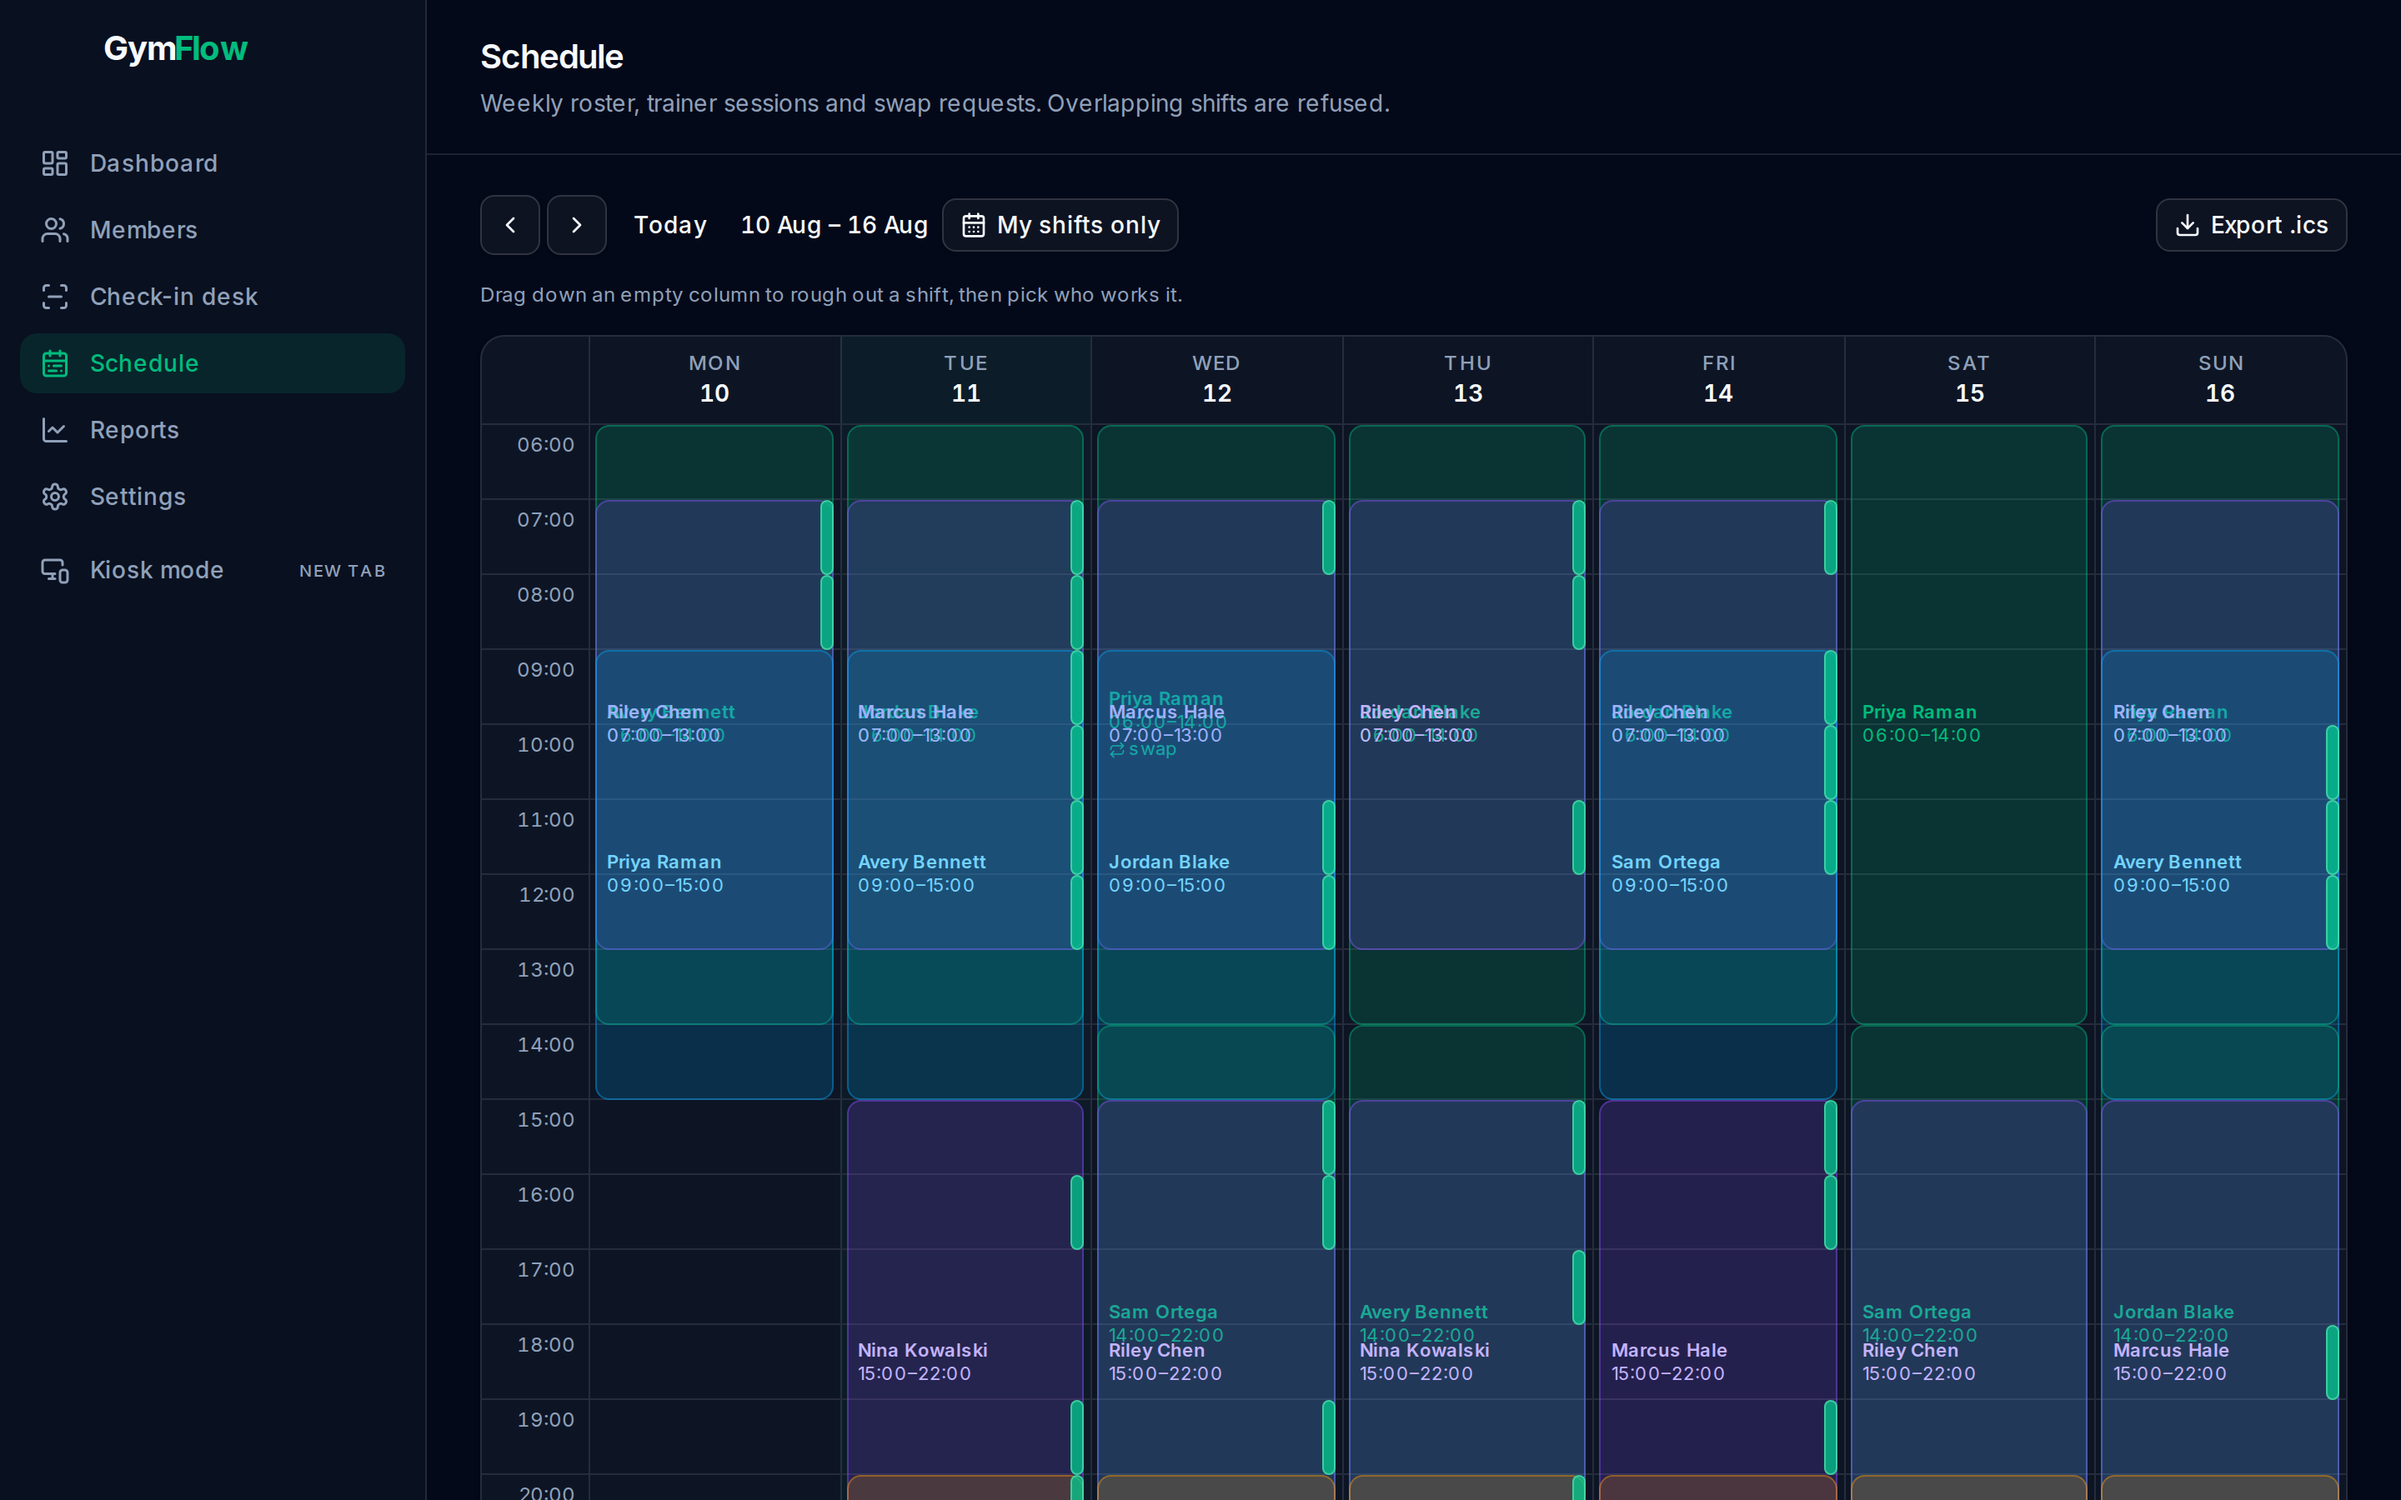
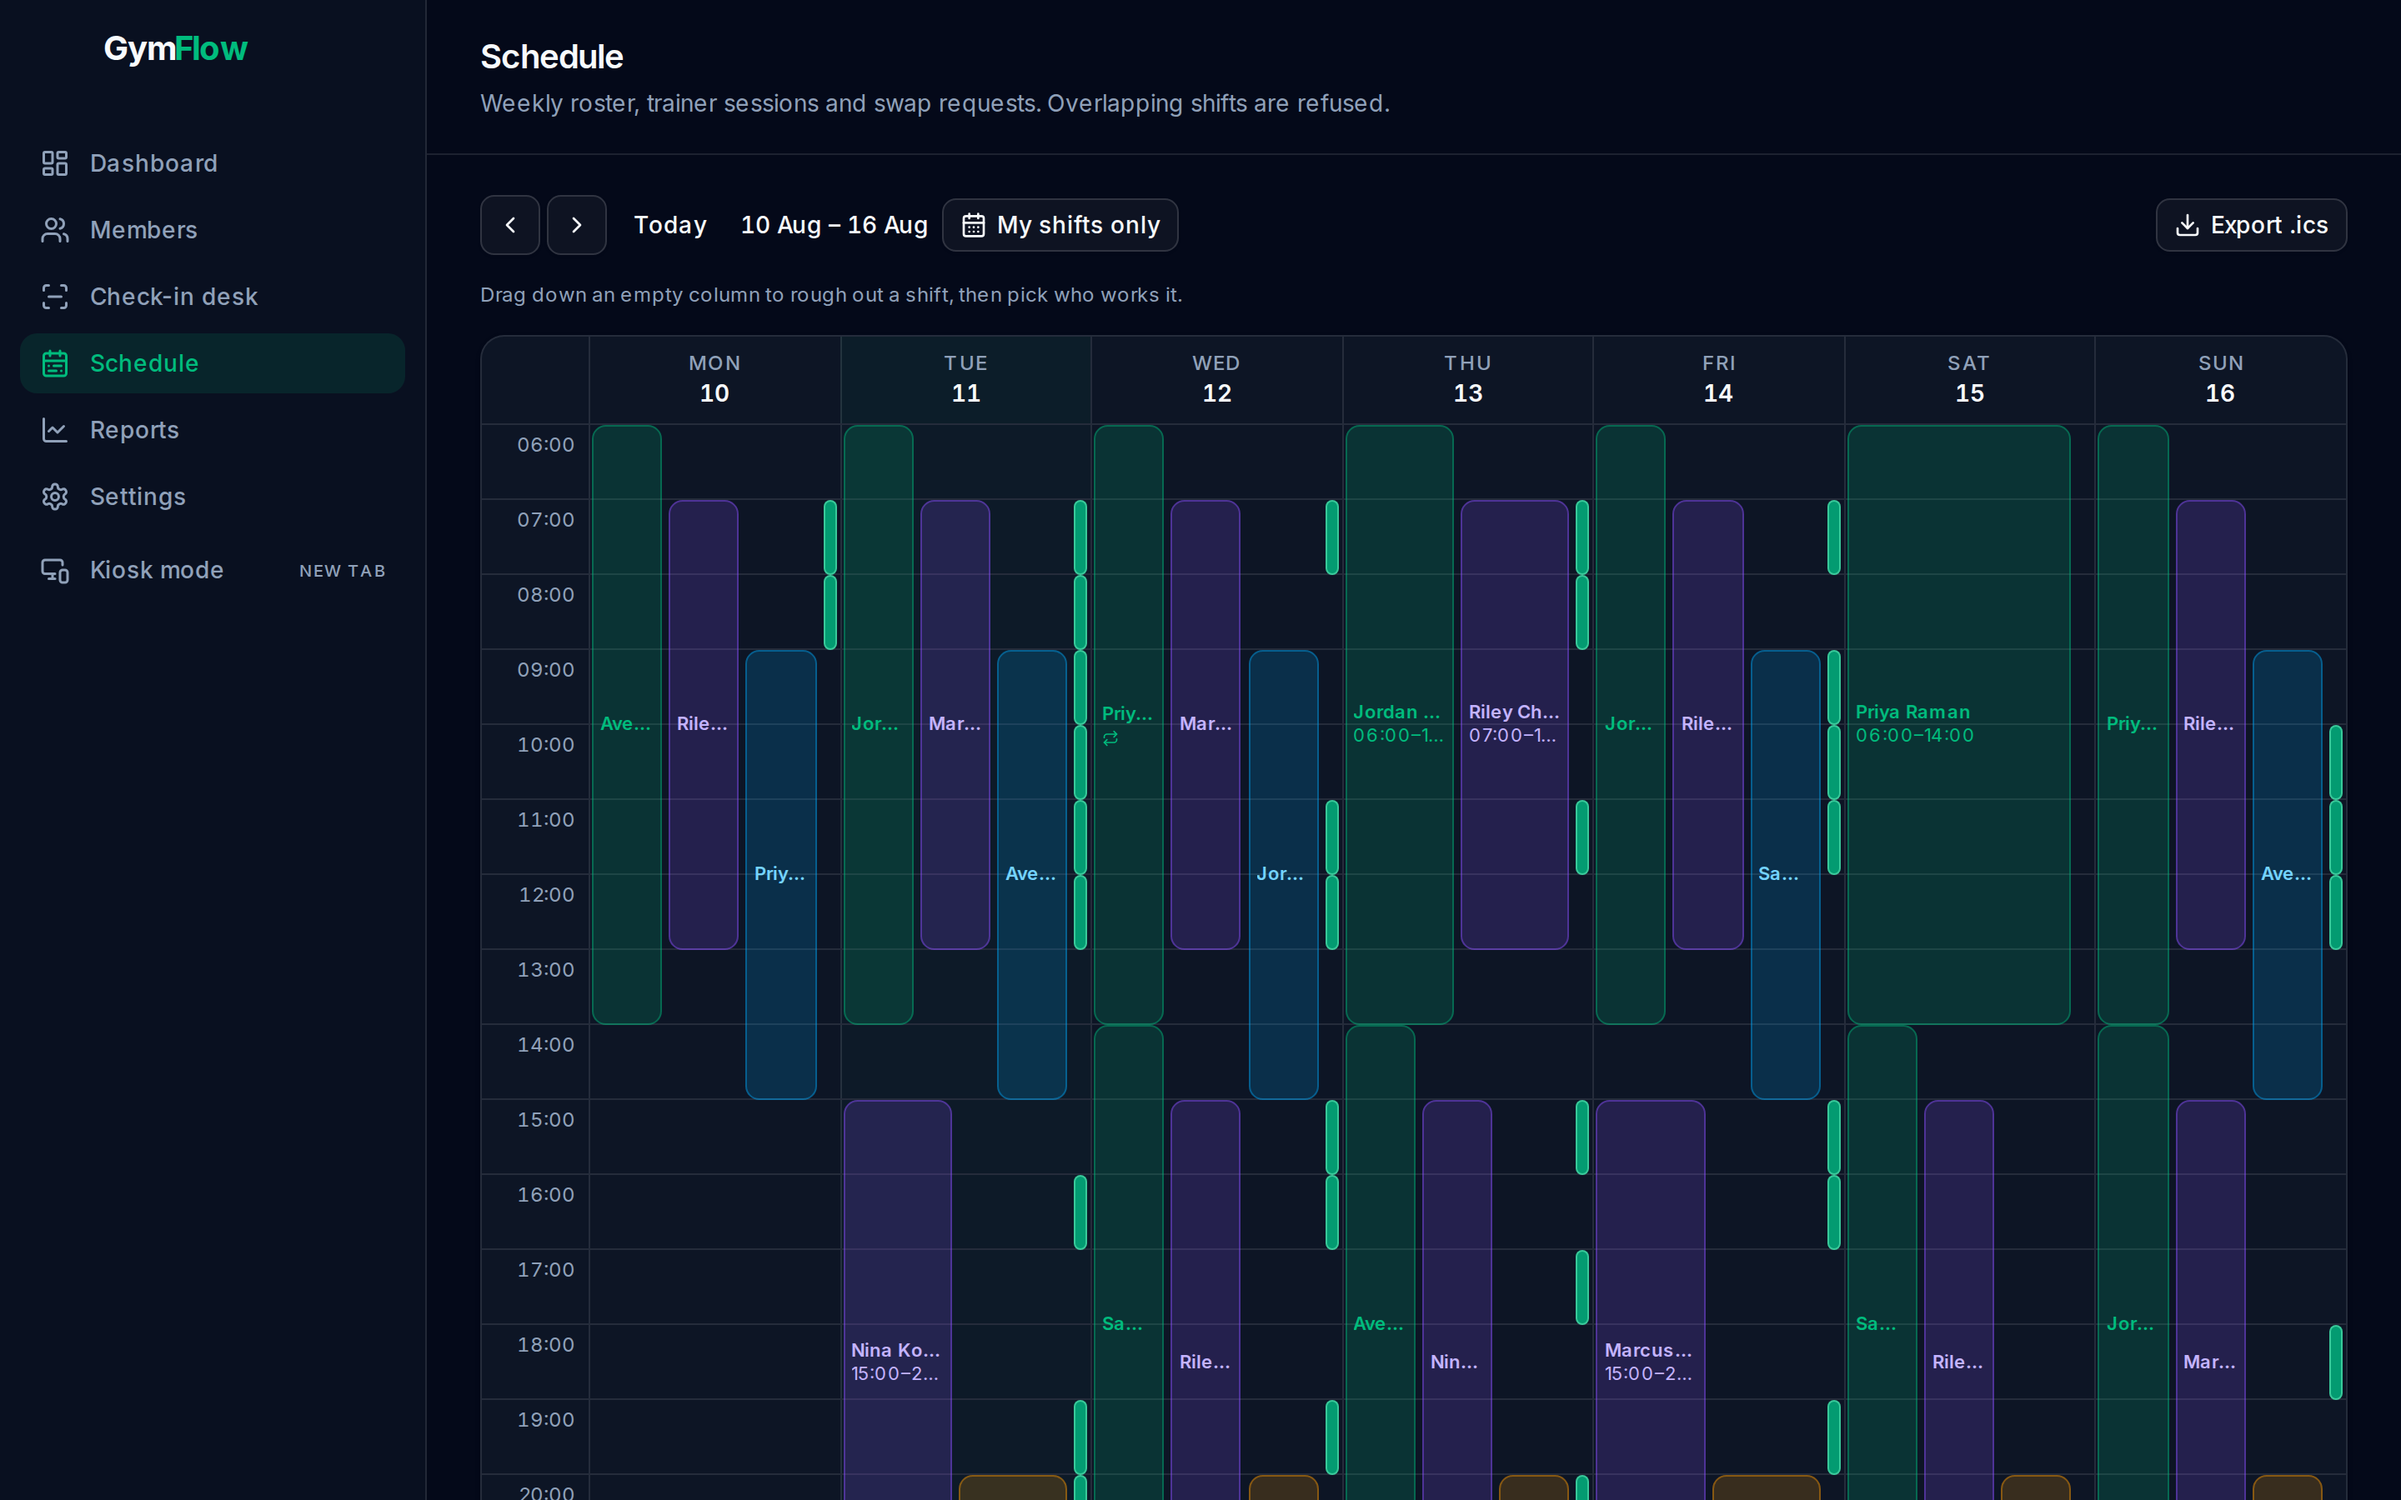
fix(schedule): widen the grid and top-align shift labels
Buttons centre their content vertically by default, which floated each label
into the middle of its block; names also drop to first-name-only once a column
is three deep.

diff --git a/src/presentation/components/schedule/schedule-screen.tsx b/src/presentation/components/schedule/schedule-screen.tsx
@@ -210,7 +210,7 @@ export function ScheduleScreen(props: ScheduleScreenProps) {
             <Skeleton className="h-[32rem] w-full" />
           ) : (
             <div className="overflow-x-auto">
-              <div className="min-w-[56rem]">
+              <div className="min-w-[72rem]">
                 {/* Day header */}
                 <div className="grid grid-cols-[4rem_repeat(7,minmax(0,1fr))] border-b border-border">
                   <div />
@@ -344,16 +344,16 @@ export function ScheduleScreen(props: ScheduleScreenProps) {
                                     width: `calc(${100 / lanes}% - 4px)`,
                                   }}
                                   className={cn(
-                                    "pointer-events-auto absolute overflow-hidden rounded-md border px-1 py-0.5 text-left text-[11px] leading-tight transition-opacity hover:opacity-90",
+                                    "pointer-events-auto absolute flex flex-col items-start justify-start overflow-hidden rounded-md border px-1 py-0.5 text-left text-[11px] leading-tight transition-opacity hover:opacity-90",
                                     POSITION_COLORS[shift.position] ?? "bg-muted",
                                     shift.status === "cancelled" && "opacity-40 line-through",
                                   )}
                                 >
-                                  <span className="block truncate font-semibold">
-                                    {shift.userName}
+                                  <span className="block w-full truncate font-semibold">
+                                    {lanes >= 3 ? shift.userName.split(" ")[0] : shift.userName}
                                   </span>
                                   {lanes < 3 ? (
-                                    <span className="block truncate">
+                                    <span className="block w-full truncate">
                                       {formatTime(shift.startsAt)}–{formatTime(shift.endsAt)}
                                     </span>
                                   ) : null}
